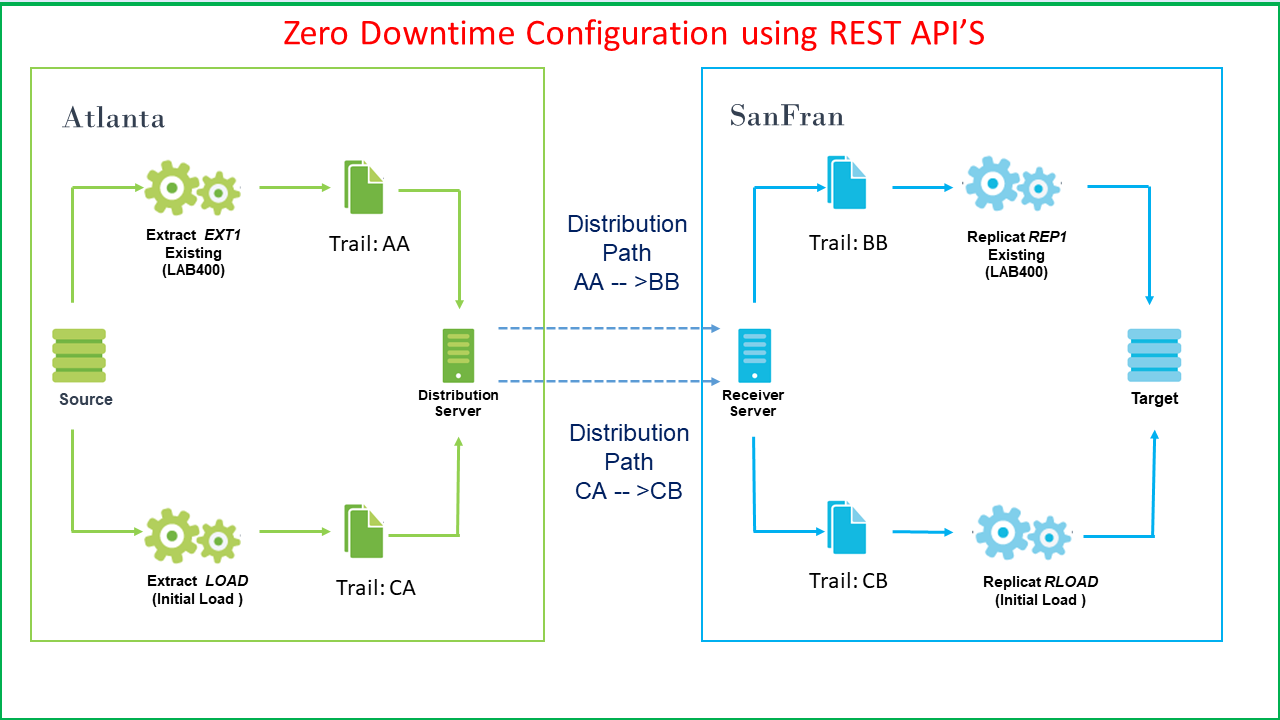
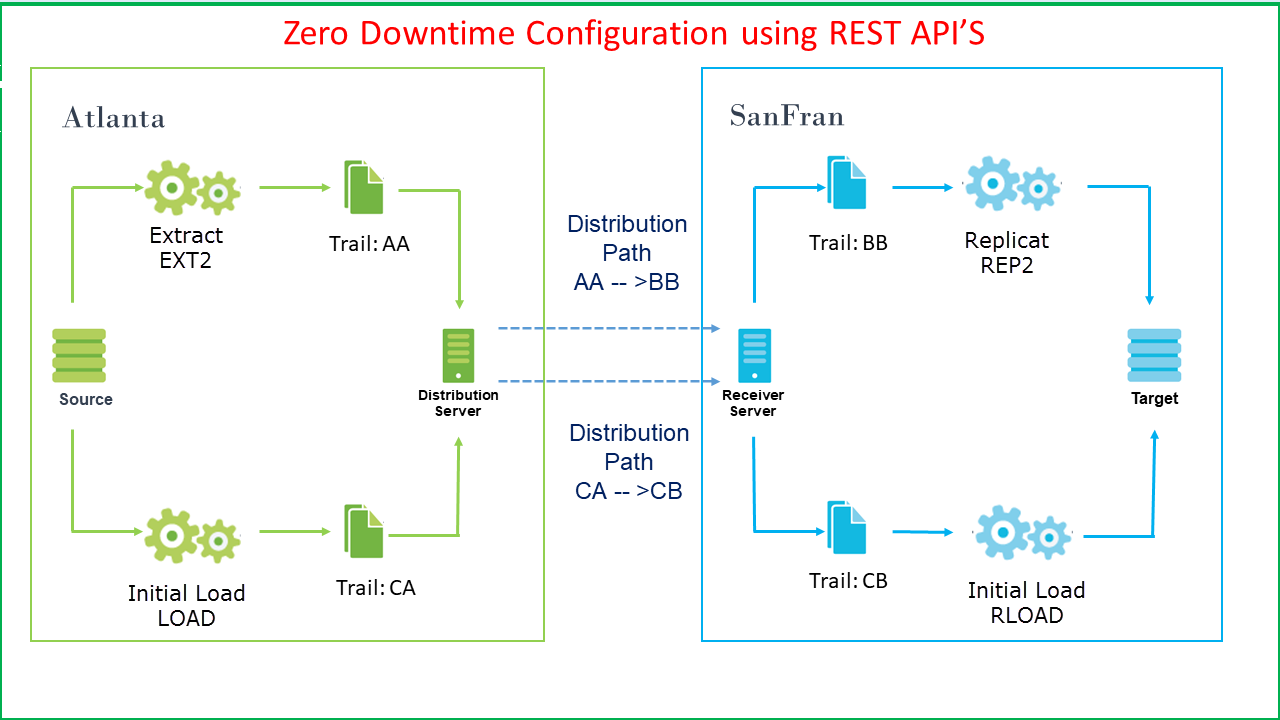
Update 022719

diff --git a/workshops/gg/CloudWorkshop_GoldenGate Microservices_500.md b/workshops/gg/CloudWorkshop_GoldenGate Microservices_500.md
@@ -1,6 +1,6 @@
 ![](images/500/Lab500_1.PNG)
 
-Update January 14, 2019
+Update February 27, 2019
 
 ## Zero Downtime Lab using REST API
 ## Introduction
@@ -71,7 +71,7 @@ This lab, will contains four parts and covers how access the services from Oracl
 
 -	Next, run the following command to remove the Replicat REP1.
 
-	** curl -X DELETE http://localhost:17001/services/v2/replicats/REP1 --user "oggadmin:"Welcome1 -H 'Cache-Control: no-cache' | python -mjson.tool **
+	- curl -X DELETE http://localhost:17001/services/v2/replicats/REP1 --user "oggadmin:"Welcome1 -H 'Cache-Control: no-cache' | python -mjson.tool
 
 		[oracle@OGG181DB183 Lab5]$ curl -X DELETE http://localhost:17001/services/v2/replicats/REP1 --user "oggadmin:"Welcome1 -H 'Cache-Control: no-cache' | python -mjson.tool
 		% Total    % Received % Xferd  Average Speed   Time    Time     Time  Current
@@ -113,7 +113,7 @@ This lab, will contains four parts and covers how access the services from Oracl
 
 -	Lastly we'll remove the Distribution Path with the following command.
 
-	** curl -X DELETE http://localhost:16002/services/v2/sources/SOE2SOE --user "oggadmin:"Welcome1 -H 'Cache-Control: no-cache' -d '{"distpath":"SOE2SOE"}' | python -mjson.tool **
+	- curl -X DELETE http://localhost:16002/services/v2/sources/SOE2SOE --user "oggadmin:"Welcome1 -H 'Cache-Control: no-cache' -d '{"distpath":"SOE2SOE"}' | python -mjson.tool
 
 		[oracle@OGG181DB183 Lab5]$ curl -X DELETE http://localhost:16002/services/v2/sources/SOE2SOE --user "oggadmin:"Welcome1 -H 'Cache-Control: no-cache' -d '{"distpath":"SOE2SOE"}' | python -mjson.tool
 		% Total    % Received % Xferd  Average Speed   Time    Time     Time  Current
@@ -402,27 +402,26 @@ For ZDT we always install the normal CDC processes first and start the capture p
 ### **STEP 2**: Create and start the CDC Distribution Path using curl commands.
 
 -   From the same terminal window review the JSON file to add the CDC Distribution Path.
+
 		[oracle@OGG181DB183 Lab5]$ cat tpath.json 
-				{
-				"name": "TSTPATH",
-				"status": "stopped",
-				"source": {
-				"uri": "trail://localhost:16002/services/v2/sources?trail=x2"
-				},
-				"target": {
-				"uri": "ws://OracleGoldenGate+WSTARGET@localhost:17003/services/v2/targets?trail=bc"
-				}
-				}
+		{
+		"name": "TSTPATH",
+		"status": "running",
+		"source": {
+		"uri": "trail://localhost:16002/services/v2/sources?trail=X1"
+		},
+		"target": {
+		"uri": "ws://OracleGoldenGate+WSTARGET@localhost:17003/services/v2/targets?trail=X2"
+		}
+		}
+
 
 -	Execute the following curl command to add the PATH to send data from Extract to replicat.
 
 		[oracle@OGG181DB183 Lab5]$ curl -u oggadmin:Welcome1 -H "Content-Type: application/json" -H "Accept: application/json" -X POST http://localhost:16002/services/v2/sources/TSTPATH -d @tpath.json | python -mjson.tool
-
--	After the command is executed successfully, the command output looks like this:
-
 		% Total    % Received % Xferd  Average Speed   Time    Time     Time  Current
 										Dload  Upload   Total   Spent    Left  Speed
-		100   709  100   499  100   210    430    181  0:00:01  0:00:01 --:--:--   430
+		100   709  100   499  100   210    448    188  0:00:01  0:00:01 --:--:--   448
 		{
 			"$schema": "api:standardResponse",
 			"links": [
@@ -441,7 +440,7 @@ For ZDT we always install the normal CDC processes first and start the capture p
 				{
 					"$schema": "ogg:message",
 					"code": "OGG-08511",
-					"issued": "2019-02-09T21:06:57Z",
+					"issued": "2019-02-27T20:36:44Z",
 					"severity": "INFO",
 					"title": "The path 'TSTPATH' has been added.",
 					"type": "http://docs.oracle.com/goldengate/c1810/gg-winux/GMESG/oggus.htm#OGG-08511"
@@ -449,7 +448,7 @@ For ZDT we always install the normal CDC processes first and start the capture p
 			]
 		}
 
-### **STEP 3**: Create the CDC Replicat using curl commands.  This will add it in a Stopped state.
+### **STEP 4**: Create the CDC Replicat using curl commands.  This will add it in a Stopped state.
 
 -   From the same terminal window review the JSON file to add the CDC Replicat.
 
@@ -458,7 +457,20 @@ For ZDT we always install the normal CDC processes first and start the capture p
 			"config":[
 				"Replicat    REP2",
 				"UseridAlias TGGATE",
-				"Map oggoow181.*, Target oggoow182.*;"
+			"HANDLECOLLISIONS",
+			"END RUNTIME",
+				"map oggoow181.soe.addresses,target soe.addresses, keycols(address_id);",
+			"map oggoow181.soe.customers, target soe.customers, keycols(customer_id);",
+			"map oggoow181.soe.orders, target soe.orders, keycols(order_id);",
+			"map oggoow181.soe.order_items, target soe.order_items, keycols(order_id, line_item_id);",
+			"map oggoow181.soe.card_details, target soe.card_details, keycols(card_id);",
+			"map oggoow181.soe.logon, target soe.logon;",
+			"map oggoow181.soe.product_information, target soe.product_information;",
+			"map oggoow181.soe.inventories, target soe.inventories, keycols(product_id, warehouse_id);",
+			"map oggoow181.soe.product_descriptions, target soe.product_descriptions;",
+			"map oggoow181.soe.warehouses, target soe.warehouses;",
+			"map oggoow181.soe.orderentry_metadata, target soe.orderentry_metadata;",
+
 			],
 			"source":{
 				"name":"X2"
@@ -467,10 +479,11 @@ For ZDT we always install the normal CDC processes first and start the capture p
 				"alias":"TGGATE"
 			},
 			"checkpoint":{
-				"table":"ggate.checkpoints"
+				"table":"OGGOOW182.GGATE.CHECKPOINTS"
 			},
 			"status":"stopped"
 		}
+
 
 -	Execute the following curl command to add the Replicat.
 
@@ -517,10 +530,11 @@ For ZDT we always install the normal CDC processes first and start the capture p
 
 -	On the Goldengate Microservices Console, under the Admin Server for SanFran you can see the Replicat has been added and the status is **Stopped**.
 
-**ADD IMAGE FOR STOPPED REPLICAT**
+![](images/500/Lab500_Rep2_Stopped.PNG)
 
-# Part 2: Initial Load by Automated Script
-![](images/500/Lab800_Part1.png)
+# Part 4: Initial Load by Automated Script
+
+![](images/500/Lab500_Arch.png)
 
 ### **STEP 1**: Run a script to delete the current data in the target database.
 
@@ -539,6 +553,12 @@ Before we begin we want to make sure the target database is empty.
 
 
 ### **STEP 2**: Run a script to perform an initial load to the target database.
+
+This script does the following:
+
+	-	Creates the Initial Load Replicat
+	-	Creates the Initial Load Distribution Path
+	-	Creates the Initial Load Extract Task
 
 -   Change directory to Lab5 and review script **Initial_load_Automated.sh**.
 
@@ -571,24 +591,23 @@ Before we begin we want to make sure the target database is empty.
 
 -	On the Goldengate Microservices Console, under the Admin Server for Atlanta if the Initial Load Extract (LOAD) is finished status should be **Stopped**.
 
-![](images/500/Lab500_image5003.PNG)
+![](images/500/Lab500_InitLoad_Done.PNG)
 
 -	On the Goldengate Microservices Console, under the Admin Server for SanFran and check the detail page for the Initial Load Replicat (RLOAD) to see if it's completed the load.
 
 -    Above script will create the initial load processes which are Extract (LOAD), Distribution Server (INITLOAD) and Replicat (RLOAD).You will need to logon on the Goldengate Microservices Console, under the Admin Server for SanFran. Right click on drop down of Replicat (RLOAD) and click on "Details"
 
-![](images/500/Lab500_image5001.PNG)
+![](images/500/Lab500_RLOAD_Details.PNG)
 
 -    Click on tab "Checkpoint" and simultaneously click on "Refresh". Once you offset is has stopped moving, it means the initial load had been completed.
 
 ![](images/500/Lab500_image5002.PNG)
 
--   Now you can go back to your Goldengate Microservices Console, under the Admin Server for SanFran. Right click on drop down of Replicat (RLOAD) and click on "Stop". Right click on Replicat (REP2) and click "Start".
+-   Now you can go back to your Goldengate Microservices Console, under the Admin Server for SanFran. Click on drop down of Replicat (RLOAD) and click on "Stop". Then, click on Replicat (REP2) and click "Start".
 
-![](images/500/Lab500_image5004.PNG)
+![](images/500/Lab500_Stop_RLOAD.PNG)
 
-
-
+![](images/500/Lab500_Start_Rep2.PNG)
 
 ### **STEP 5**: Start the CDC Replicat to sync the data.
 
